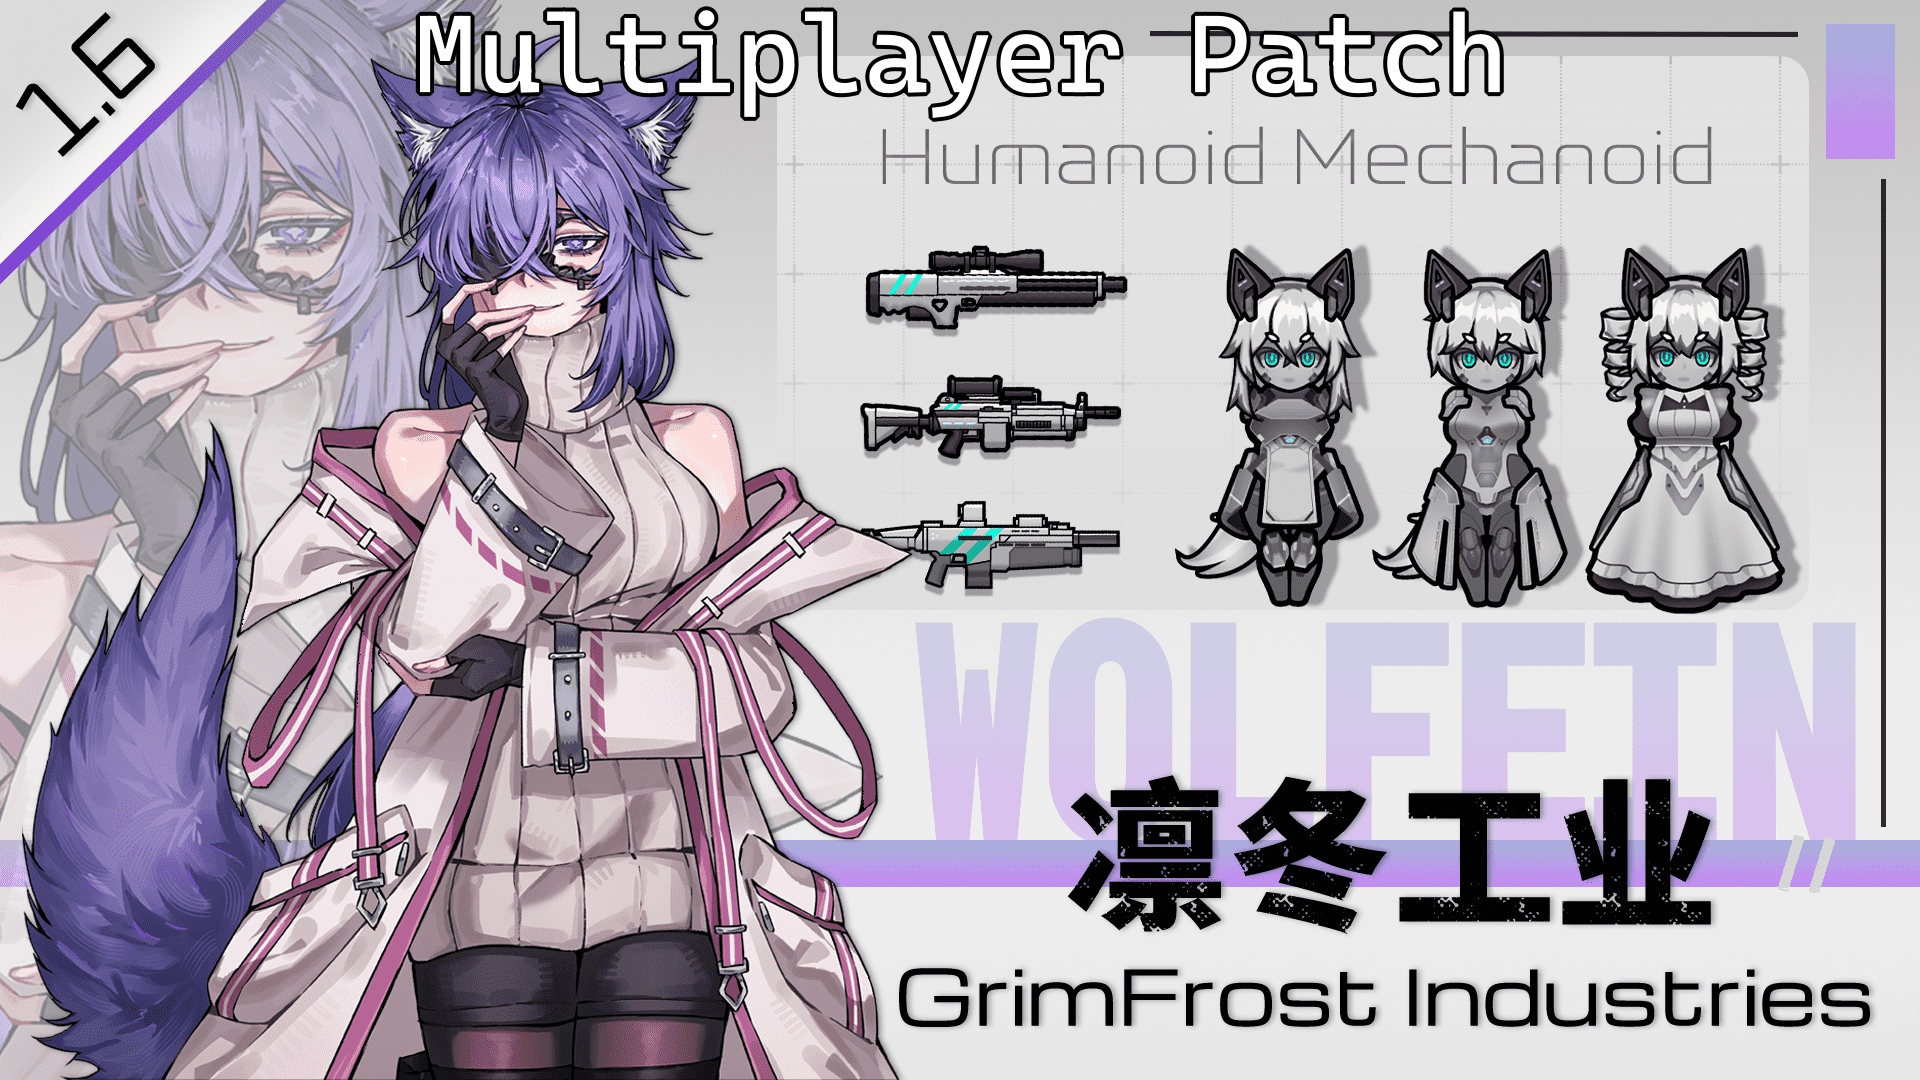
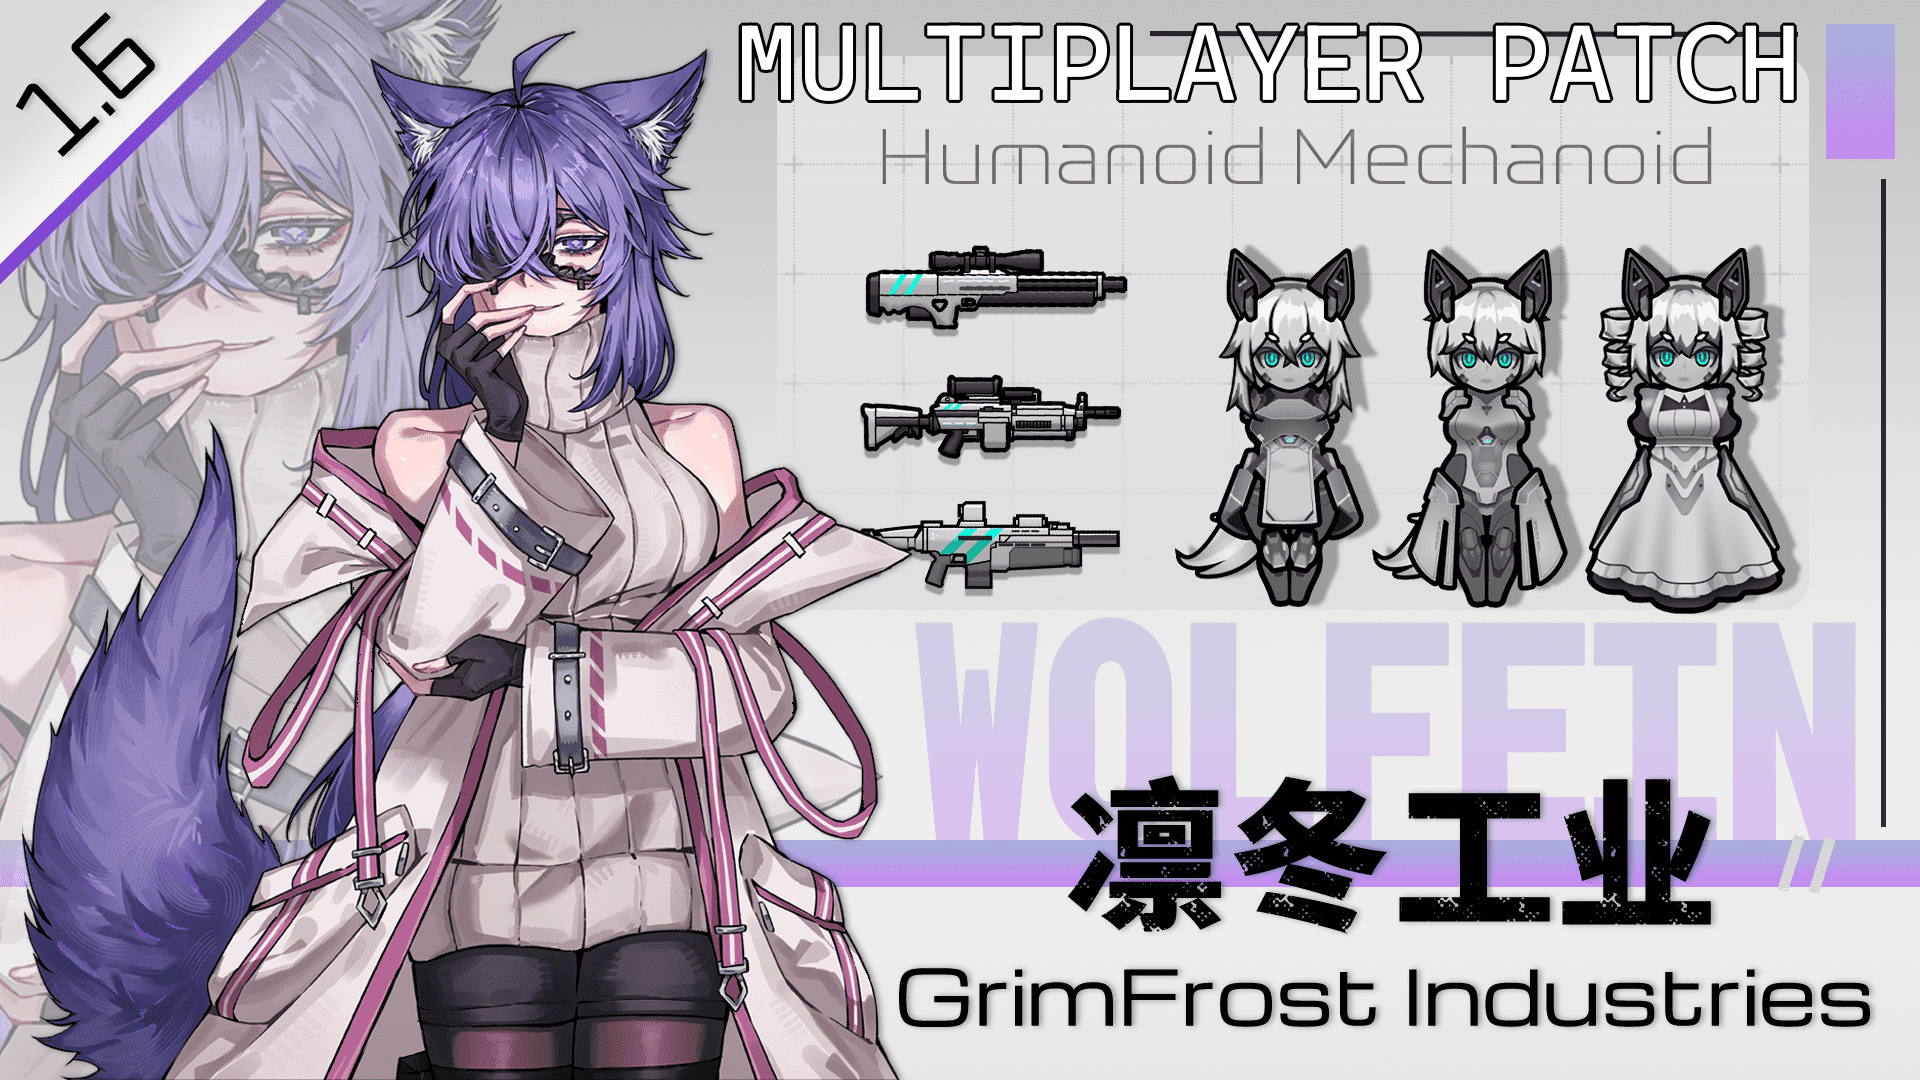
Change packageId and update Preview

Changed region(s): [[0.2188, 0.0, 0.9375, 0.1222]]

diff --git a/Source/Mods/WolfeinRaceGFIExpand.cs b/Source/Mods/WolfeinRaceGFIExpand.cs
@@ -4,8 +4,9 @@ using Verse;
 namespace MultiplayerWolfeinRaceGFIExpandPatch.Source.Mods;
 
 /// <summary>
-///     Multiplayer Patch for Wolfein Race GFI Expand by 静流的笨蛋喵, Last Update: 2 Aug @ 5:23pm 2026
-///     https://steamcommunity.com/sharedfiles/filedetails/?id=3699095346
+///     Multiplayer Patch for Wolfein Race GFI Expand by 静流的笨蛋喵,
+///     Last Update: 2 Aug @ 5:23pm 2026
+///     <see href="https://steamcommunity.com/sharedfiles/filedetails/?id=3699095346" />
 /// </summary>
 [MpCompatFor("JL.WolfeinGFIExpanded")]
 public class WolfeinRaceGFIExpand
